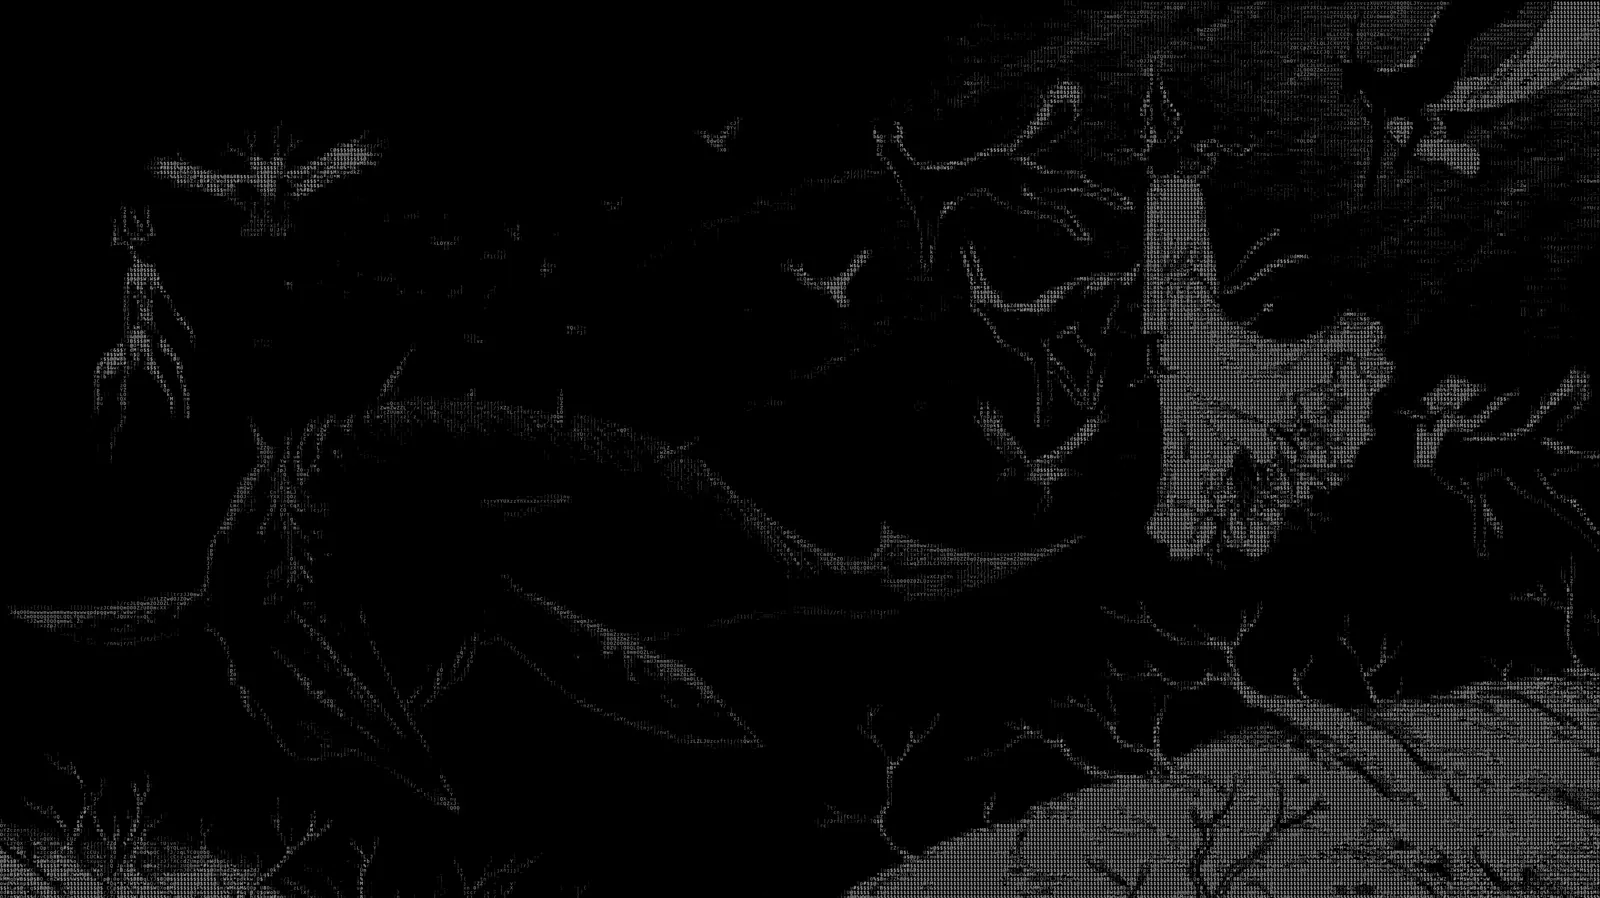
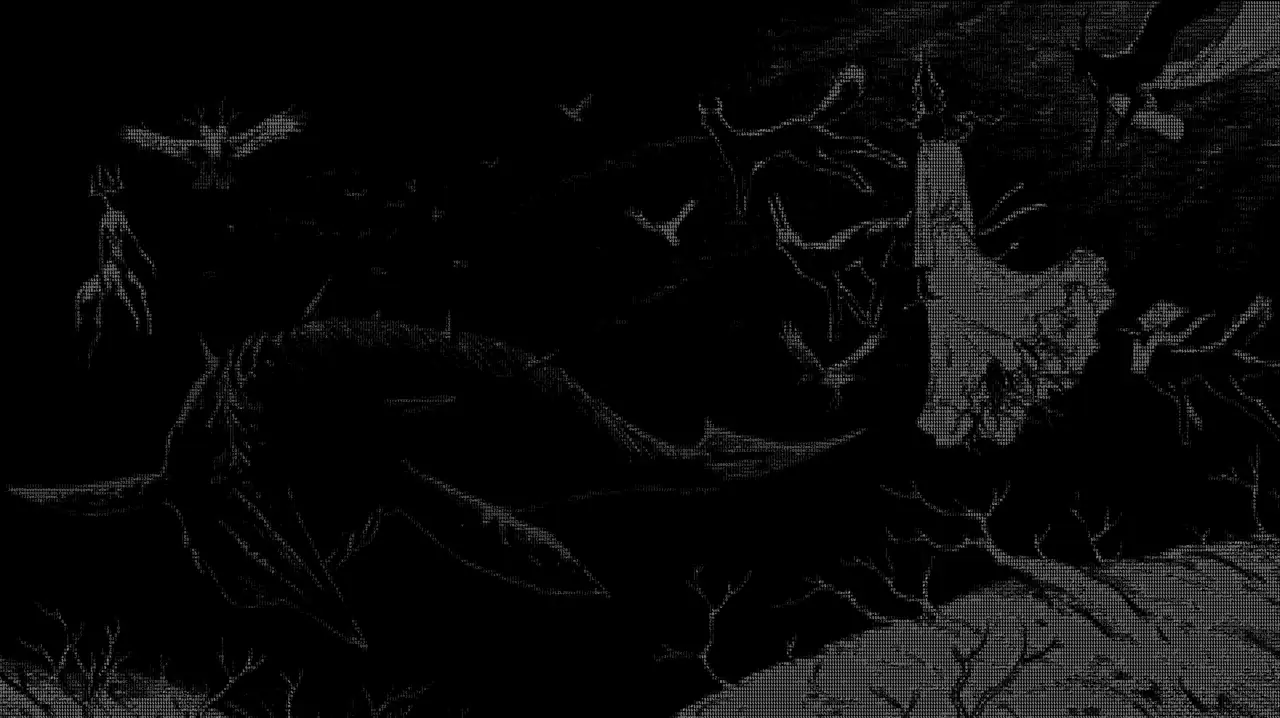
perf: imágenes del perfil optimizadas (fondo 73KB, foto 5KB) y pesos de fuente recortados

diff --git a/index.html b/index.html
@@ -16,9 +16,9 @@
 
     <link rel="preconnect" href="https://fonts.googleapis.com">
     <link rel="preconnect" href="https://fonts.gstatic.com" crossorigin>
-    <link rel="stylesheet" href="https://fonts.googleapis.com/css2?family=Inter:wght@400;500;600;700;800&family=JetBrains+Mono:wght@400;600&display=swap" media="print" onload="this.media='all'">
+    <link rel="stylesheet" href="https://fonts.googleapis.com/css2?family=Inter:wght@400;600;700;800&family=JetBrains+Mono:wght@400;600&display=swap" media="print" onload="this.media='all'">
     <noscript>
-        <link rel="stylesheet" href="https://fonts.googleapis.com/css2?family=Inter:wght@400;500;600;700;800&family=JetBrains+Mono:wght@400;600&display=swap">
+        <link rel="stylesheet" href="https://fonts.googleapis.com/css2?family=Inter:wght@400;600;700;800&family=JetBrains+Mono:wght@400;600&display=swap">
     </noscript>
 
     <link rel="stylesheet" href="css/00-reset.css">
